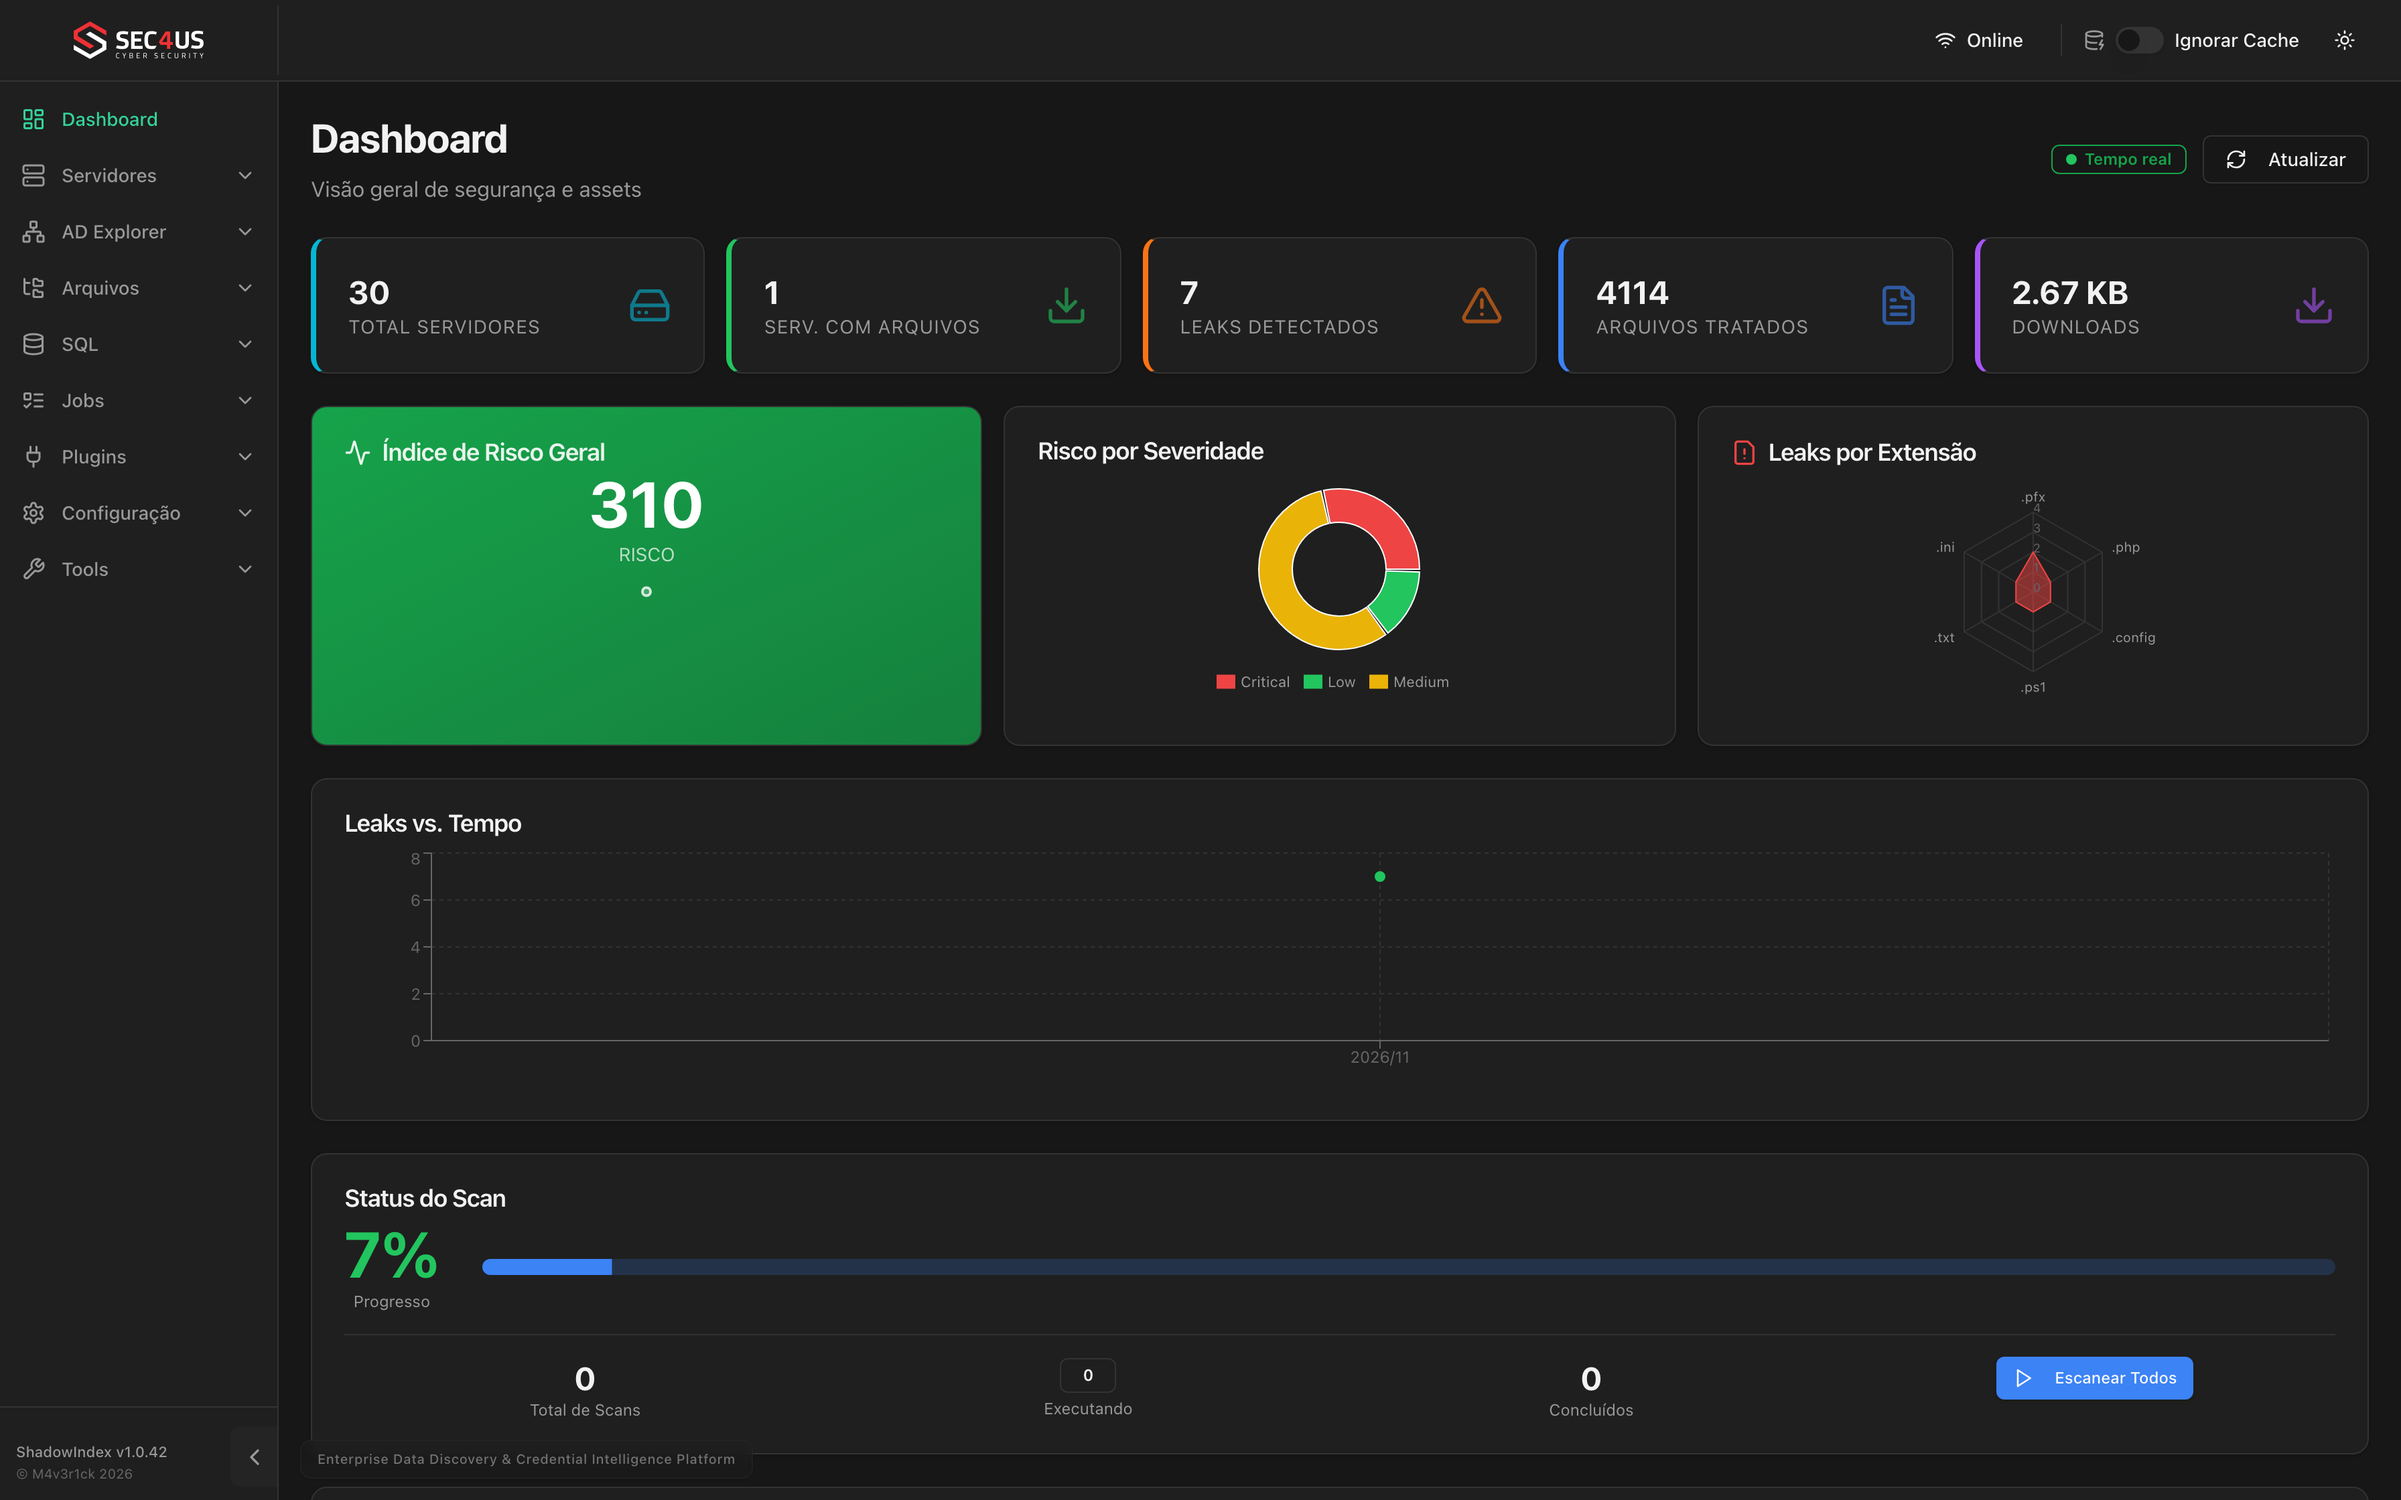
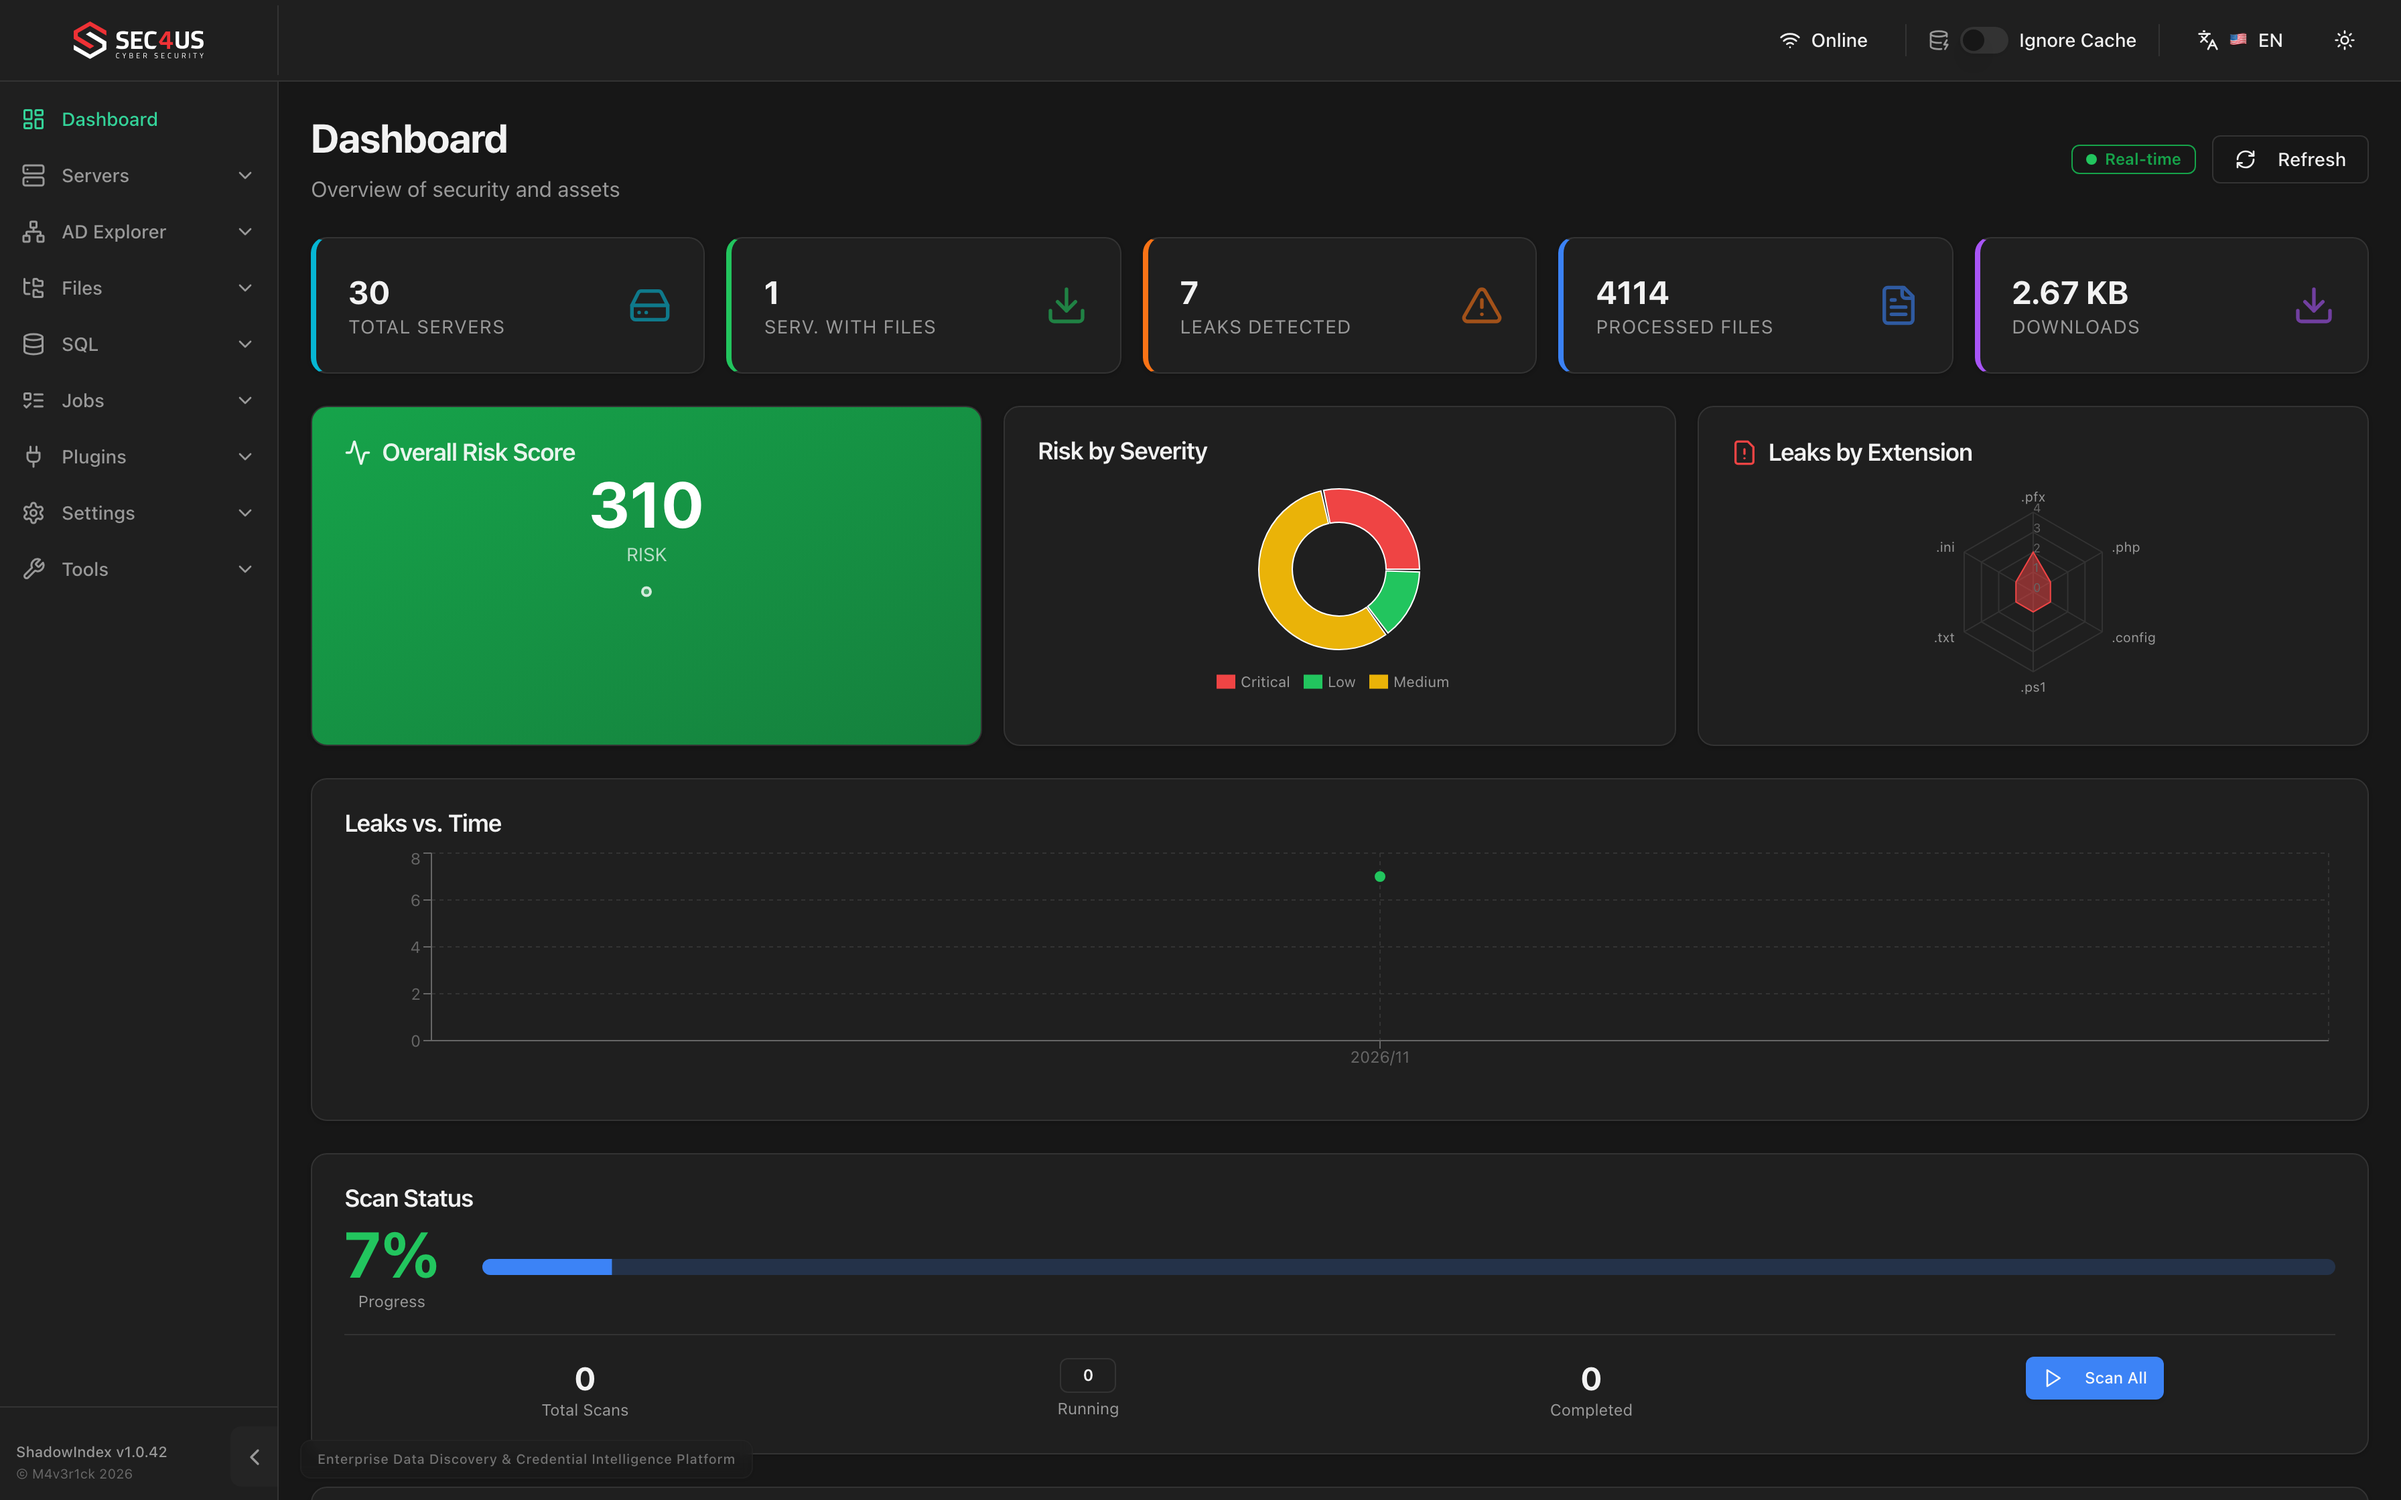
docs/screenshots: prints em inglês + opção --lang na captura
- Captura: nova flag --lang {en,pt} (força o idioma via localStorage) e LANG_UI
  no wrapper.
- Wiki/README: todas as imagens regeradas com a interface em inglês.

diff --git a/tests/screenshots/capture_screenshots.py b/tests/screenshots/capture_screenshots.py
@@ -176,7 +176,7 @@ def slugify(text: str) -> str:
 
 
 def capture(base_url: str, out_dir: Path, width: int, height: int,
-            full_page: bool, theme: str, wait_ms: int):
+            full_page: bool, theme: str, wait_ms: int, lang: str = "pt"):
     out_dir.mkdir(parents=True, exist_ok=True)
     results = []
     pages = resolve_pages(base_url)
@@ -187,7 +187,11 @@ def capture(base_url: str, out_dir: Path, width: int, height: int,
             viewport={"width": width, "height": height},
             device_scale_factor=2,  # retina — imagens nítidas
             color_scheme="dark" if theme == "dark" else "light",
-            locale="pt-BR",
+            locale="en-US" if lang == "en" else "pt-BR",
+        )
+        # Força o idioma da aplicação (persistido em localStorage pelo app).
+        context.add_init_script(
+            f"try {{ localStorage.setItem('shadowindex_lang', '{lang}'); }} catch (e) {{}}"
         )
         page = context.new_page()
 
@@ -226,12 +230,14 @@ def main():
     ap.add_argument("--full-page", action="store_true", help="Captura a página inteira (scroll).")
     ap.add_argument("--theme", choices=["dark", "light"], default="dark")
     ap.add_argument("--wait-ms", type=int, default=1800, help="Espera extra por página (ms).")
+    ap.add_argument("--lang", choices=["en", "pt"], default="pt",
+                    help="Idioma da interface nos screenshots (força via localStorage).")
     args = ap.parse_args()
 
     out_dir = Path(args.out)
     t0 = time.time()
     results = capture(args.base_url, out_dir, args.width, args.height,
-                      args.full_page, args.theme, args.wait_ms)
+                      args.full_page, args.theme, args.wait_ms, args.lang)
     print(f"\n✅ {len(results)} screenshots em {out_dir} ({time.time()-t0:.1f}s)")
 
 
